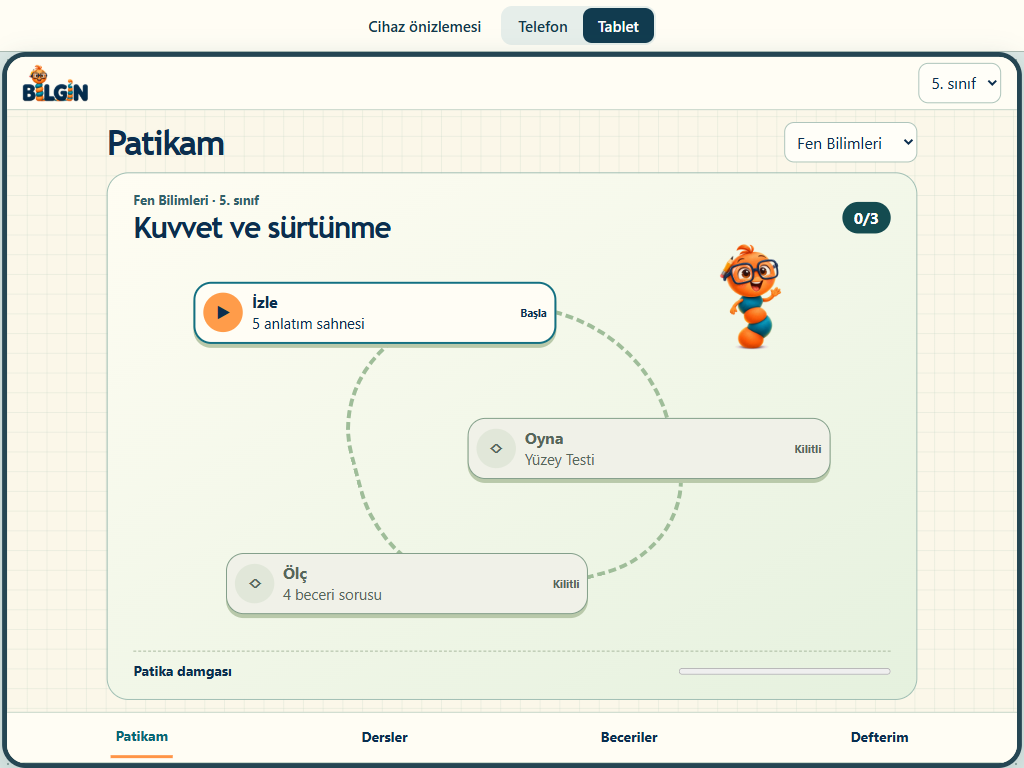
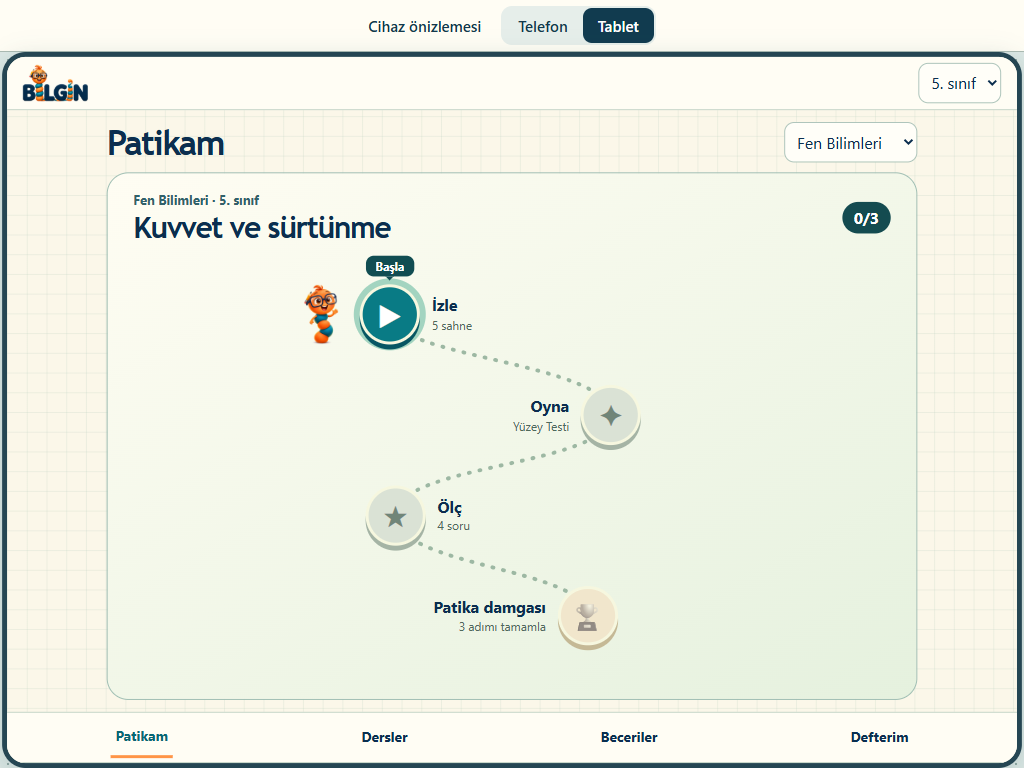
Draw circular lesson steps along a dotted learning path

diff --git a/mobil/mobil.css b/mobil/mobil.css
@@ -1,1 +1,13 @@
-:root{--lacivert:#0b2e4f;--petrol:#0e6e8c;--mandalina:#ff8a3d;--kiremit:#b4541a;--kenar:#d2f1fb;--kagit:#fbf6e6;--kalem:#3d4f63;--el:'Trebuchet MS',system-ui,sans-serif;--ui:'Segoe UI',sans-serif;color:var(--lacivert);font:16px/1.4 var(--ui)}*{box-sizing:border-box}body{margin:0;height:100dvh;display:grid;grid-template-rows:54px minmax(0,1fr) 52px;background-color:#fbf7e9;background-image:linear-gradient(#c2d4c444 1px,transparent 1px),linear-gradient(90deg,#c2d4c444 1px,transparent 1px);background-size:20px 20px}header,nav,.heading,.trailTitle,.trailFoot,.pager,.filters{display:flex;align-items:center;justify-content:space-between;gap:8px}header,nav{padding:6px 16px;background:#fffdf4;border-bottom:1px solid #c4d3c6}header img{width:66px;height:40px;object-fit:contain}select,button,input,textarea,a{font:inherit;color:inherit}select,input,textarea,.pager button{max-width:100%;border:1px solid #adc4ba;border-radius:10px;background:#fffef8;padding:8px}button,a{cursor:pointer}button:disabled{cursor:default}a{text-decoration:none}main{min-height:0;width:min(100%,850px);margin:auto;padding:12px 14px;height:100%;display:flex;flex-direction:column;gap:10px}h1,h2,h3,p{margin:0}h1,h2{font:800 clamp(24px,4.5vw,35px)/1.06 var(--el);letter-spacing:-.04em}h2{font-size:clamp(21px,4vw,30px)}.heading select{max-width:53%}nav{justify-content:space-around;border-top:1px solid #c4d3c6}nav a{padding:10px 5px;font-size:14px;font-weight:750}nav a[aria-current]{color:#096674;border-bottom:3px solid #ff9446}.trail,.paper{border:1px solid #9fbeb3;border-radius:22px;background:#fffdf4;padding:16px}.trail{flex:1;min-height:0;display:flex;flex-direction:column;isolation:isolate;background:linear-gradient(150deg,#fffdf3,#e5f1de)}.eyebrow{font-size:13px;font-weight:750;color:#31616a;margin-bottom:4px}.score{background:#144b50;color:white;padding:5px 12px;border-radius:20px;font-weight:bold}.land{flex:1;min-height:0;position:relative;display:grid;align-items:center;isolation:isolate}.routeLine{position:absolute;inset:14% 25%;border:4px dashed #9fbd99;border-radius:38% 55% 32% 50%;transform:rotate(-15deg);z-index:-2}.worm{position:absolute;right:1%;top:0;width:23%;height:26%;object-fit:contain;z-index:-1}.node{position:relative;display:flex;align-items:center;gap:9px;width:79%;max-width:425px;padding:8px;background:#fffdf5;border:1px solid #829e89;border-radius:18px;text-align:left;box-shadow:0 4px 0 #b9c9aa}.node:nth-of-type(2){justify-self:end}.node:nth-of-type(3){margin-left:5%}.node b{border-radius:50%;width:40px;height:40px;display:grid;place-items:center;background:#e1e7d9}.node span{flex:1}.node strong,.node small{display:block}.node small{font-size:13px}.node em{font:700 11px var(--ui)}.node.active{border:2px solid #137082}.node.active b{background:#ff9c4a}.node.done b{background:#c4e8c4}.node.locked{background:#f0f1e8;color:#56665a}.trailFoot{font-weight:bold;font-size:14px;border-top:1px dashed #aaba9f;padding-top:10px}.trailFoot progress{width:28%;accent-color:#0d7882}.paper{display:grid;align-content:center;gap:10px;flex:1}.subjectArt{width:100%;height:clamp(70px,19vh,155px);object-fit:contain}.action{border:0;background:#103c50;color:white;font-weight:750;padding:10px 15px;border-radius:12px;justify-self:start}.filters input{min-width:0;width:60%}.filters select{width:40%}#card{min-height:0;flex:1;display:flex;flex-direction:column;gap:8px}.pager{justify-content:center}.pager button{min-width:48px}.skill{border-bottom:1px dashed #abc3b9;padding:4px 0}textarea{resize:none;width:100%}:focus-visible{outline:3px solid #ad570e;outline-offset:2px}@media(min-width:600px){.land{margin:0 8%}.node{width:57%}.paper{padding-inline:7%}.worm{right:3%;width:19%}.subjectArt{height:105px}.trail{padding:18px 26px}.node small{font-size:15px}}
+:root{--lacivert:#0b2e4f;--petrol:#0e6e8c;--mandalina:#ff8a3d;--kiremit:#b4541a;--kenar:#d2f1fb;--kagit:#fbf6e6;--kalem:#3d4f63;--el:'Trebuchet MS',system-ui,sans-serif;--ui:'Segoe UI',sans-serif;color:var(--lacivert);font:16px/1.4 var(--ui)}*{box-sizing:border-box}body{margin:0;height:100dvh;display:grid;grid-template-rows:54px minmax(0,1fr) 52px;background-color:#fbf7e9;background-image:linear-gradient(#c2d4c444 1px,transparent 1px),linear-gradient(90deg,#c2d4c444 1px,transparent 1px);background-size:20px 20px}header,nav,.heading,.trailTitle,.trailFoot,.pager,.filters{display:flex;align-items:center;justify-content:space-between;gap:8px}header,nav{padding:6px 16px;background:#fffdf4;border-bottom:1px solid #c4d3c6}header img{width:66px;height:40px;object-fit:contain}select,button,input,textarea,a{font:inherit;color:inherit}select,input,textarea,.pager button{max-width:100%;border:1px solid #adc4ba;border-radius:10px;background:#fffef8;padding:8px}button,a{cursor:pointer}button:disabled{cursor:default}a{text-decoration:none}main{min-height:0;width:min(100%,850px);margin:auto;padding:12px 14px;height:100%;display:flex;flex-direction:column;gap:10px}h1,h2,h3,p{margin:0}h1,h2{font:800 clamp(24px,4.5vw,35px)/1.06 var(--el);letter-spacing:-.04em}h2{font-size:clamp(21px,4vw,30px)}.heading select{max-width:53%}nav{justify-content:space-around;border-top:1px solid #c4d3c6}nav a{padding:10px 5px;font-size:14px;font-weight:750}nav a[aria-current]{color:#096674;border-bottom:3px solid #ff9446}.trail,.paper{border:1px solid #9fbeb3;border-radius:22px;background:#fffdf4;padding:16px}.trail{flex:1;min-height:0;display:flex;flex-direction:column;isolation:isolate;background:linear-gradient(150deg,#fffdf3,#e5f1de)}.eyebrow{font-size:13px;font-weight:750;color:#31616a;margin-bottom:4px}.score{background:#144b50;color:white;padding:5px 12px;border-radius:20px;font-weight:bold}.paper{display:grid;align-content:center;gap:10px;flex:1}.subjectArt{width:100%;height:clamp(70px,19vh,155px);object-fit:contain}.action{border:0;background:#103c50;color:white;font-weight:750;padding:10px 15px;border-radius:12px;justify-self:start}.filters input{min-width:0;width:60%}.filters select{width:40%}#card{min-height:0;flex:1;display:flex;flex-direction:column;gap:8px}.pager{justify-content:center}.pager button{min-width:48px}.skill{border-bottom:1px dashed #abc3b9;padding:4px 0}textarea{resize:none;width:100%}:focus-visible{outline:3px solid #ad570e;outline-offset:2px}@media(min-width:600px){.paper{padding-inline:7%}.subjectArt{height:105px}.trail{padding:18px 26px}}
+.land{position:relative;flex:1;min-height:0;width:100%;max-width:590px;align-self:center;--dot:clamp(48px,8.5vh,68px)}
+.track{position:absolute;inset:0;width:100%;height:100%;pointer-events:none}
+.track path{fill:none;stroke:#9db8a3;stroke-width:4;stroke-linecap:round;stroke-dasharray:1 10;vector-effect:non-scaling-stroke}
+.stop{position:absolute;left:var(--x);top:var(--y);width:var(--dot);height:var(--dot);transform:translate(-50%,-50%)}
+.node{position:relative;width:100%;height:100%;padding:0;display:grid;place-items:center;border-radius:50%;border:3px solid #f6f7df;background:#dae2d5;color:#708578;box-shadow:0 5px 0 #a5b4a5;font-weight:850;font-size:calc(var(--dot)*.45);line-height:1}
+.node.active{color:white;background:#097b85;box-shadow:0 5px 0 #075663,0 0 0 6px #a3d4c0}
+.node.done{color:#fff;background:#268158;box-shadow:0 5px 0 #145a40}
+.node.award{background:#f1e6cc;box-shadow:0 5px 0 #c5b996}.award.locked span{filter:grayscale(.9);opacity:.7}.award.done{background:#ffc766}
+.node:enabled:active{transform:translateY(3px)}
+.stopLabel{position:absolute;top:50%;transform:translateY(-50%);width:clamp(90px,25vw,154px);pointer-events:none}.east .stopLabel{left:calc(100% + 12px)}.west .stopLabel{right:calc(100% + 12px);text-align:right}.stopLabel strong,.stopLabel small{display:block}.stopLabel small{font-size:12px;color:#50695c}
+.startFlag{position:absolute;left:50%;bottom:calc(100% + 8px);transform:translateX(-50%);background:#114d52;color:white;padding:2px 10px;border-radius:8px;font-size:12px;font-weight:750;pointer-events:none}.startFlag:after{content:'';position:absolute;top:100%;left:calc(50% - 4px);border:4px solid transparent;border-top-color:#114d52}
+.guideWorm{position:absolute;top:50%;transform:translateY(-50%);width:clamp(36px,9vw,60px);height:var(--dot);object-fit:contain;pointer-events:none}.east .guideWorm{right:calc(100% + 9px)}.west .guideWorm{left:calc(100% + 9px)}

diff --git a/mobil/mobil.js b/mobil/mobil.js
@@ -1,4 +1,4 @@
-const screen=document.querySelector('#screen'),gradeSelect=document.querySelector('#grade');
+const screen=document.querySelector('#screen'),gradeSelect=document.querySelector('#grade');
 gradeSelect.innerHTML=Array.from({length:8},(_,i)=>'<option value="'+(i+1)+'">'+(i+1)+'. sınıf</option>').join('');
 gradeSelect.value=grade;
 const icons={'Matematik':'matematik','Fen Bilimleri':'fen','Türkçe':'turkce','Hayat Bilgisi':'hayat','Sosyal Bilgiler':'sosyal','Din Kültürü':'din','İngilizce':'ingilizce','İnkılap Tarihi':'inkilap'};
@@ -8,14 +8,27 @@ function picker(){return '<select id="subject" aria-label="Ders">'+subjects().ma
 function heading(title){return '<div class="heading"><h1>'+title+'</h1>'+picker()+'</div>'}
 function pathLink(){return '<a class="action" href="#patika">Patikayı aç →</a>'}
 function path(){
- const l=lesson(),n=level(),details=[l.v.length+' anlatım sahnesi',l.oyun.ad,l.test.length+' beceri sorusu'];
- const nodes=steps.map((step,i)=>{
-   const status=i<n?'done':i===n?'active':'locked';
-   const mark=i<n?'✓':i===n?'▶':'◇';
-   return '<button class="node '+status+'" data-step="'+i+'" '+(i>n?'disabled':'')+'><b aria-hidden="true">'+mark+'</b><span><strong>'+labels[i]+'</strong><small>'+details[i]+'</small></span><em>'+(i<n?'Tekrar':i===n?'Başla':'Kilitli')+'</em></button>';
+ const l=lesson(),n=level();
+ const points=[[29,16],[67,39],[30,62],[63,85]];
+ const titles=[...labels,'Patika damgası'];
+ const hints=[l.v.length+' sahne',l.oyun.ad,l.test.length+' soru',n===3?'Kazanıldı':'3 adımı tamamla'];
+ const marks=['▶','✦','★','🏆'];
+ const nodes=points.map(([x,y],i)=>{
+   const award=i===3,done=i<n||(award&&n===3),active=i===n&&!award;
+   const state=done?'done':active?'active':'locked';
+   const action=award?'data-award':'data-step="'+i+'"';
+   const label=titles[i]+', '+(done?(award?'becerilerini gör':'tekrar aç'):active?'başla':'kilitli');
+   return `<div class="stop ${x>50?'west':'east'}" style="--x:${x}%;--y:${y}%">
+     <button class="node ${state}${award?' award':''}" ${action} aria-label="${label}" ${!done&&!active?'disabled':''}>
+     <span aria-hidden="true">${done&&!award?'✓':marks[i]}</span></button>
+     <div class="stopLabel"><strong>${titles[i]}</strong><small>${hints[i]}</small></div>
+     ${active?'<span class="startFlag">Başla</span><img class="guideWorm" src="../img/poz_selam.webp" alt="">':''}</div>`;
  }).join('');
- screen.innerHTML=heading('Patikam')+'<div class="trail"><div class="trailTitle"><div><p class="eyebrow">'+subject+' · '+grade+'. sınıf</p><h2>'+l.konu+'</h2></div><span class="score">'+n+'/3</span></div><div class="land"><div class="routeLine"></div><img class="worm" src="../img/poz_selam.webp" alt="">'+nodes+'</div><div class="trailFoot"><span>'+(n===3?'✦ Patika damganı kazandın':'Patika damgası')+'</span><progress max="3" value="'+n+'"></progress></div></div>';
+ const road='M29 16 C29 26 67 27 67 39 S30 50 30 62 S63 74 63 85';
+ screen.innerHTML=heading('Patikam')+`<section class="trail"><div class="trailTitle"><div><p class="eyebrow">${subject} · ${grade}. sınıf</p><h2>${l.konu}</h2></div><span class="score" aria-label="${n} adım tamamlandı">${n}/3</span></div>
+ <div class="land"><svg class="track" viewBox="0 0 100 100" preserveAspectRatio="none" aria-hidden="true"><path d="${road}"/></svg>${nodes}</div></section>`;
  screen.querySelectorAll('[data-step]').forEach(b=>b.onclick=()=>location.href=url('etkinlik.html')+'&adim='+steps[Number(b.dataset.step)]);
+ screen.querySelector('[data-award]').onclick=()=>location.hash='harita';
 }
 function catalog(){
  screen.innerHTML='<h1>Ders patikaları</h1><div class="filters"><input type="search" aria-label="Patika ara" placeholder="Ders, oyun veya beceri ara"><select aria-label="İlerleme"><option>Tümü</option><option>Tamamlananlar</option><option>Devam edenler</option></select></div><div id="card"></div>';
